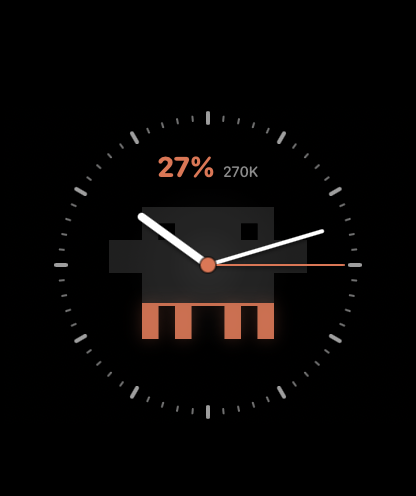
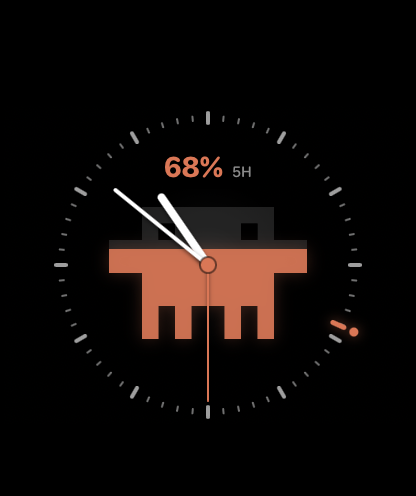
Add five-hour reset experience
Model a mock five-hour allowance, mark its reset time on the analog dial, and let the digital clock toggle to a live countdown.

Copilot-Session: a1662503-018e-45a5-9f2f-94f463106b09

Changed region(s): [[0.25, 0.3629, 0.8125, 0.6351], [0.375, 0.3024, 0.625, 0.3629], [0.7812, 0.6351, 0.875, 0.6956]]

diff --git a/ClaudeCreditsWatch/FiveAliensFaceView.swift b/ClaudeCreditsWatch/FiveAliensFaceView.swift
@@ -3,6 +3,8 @@ import SwiftUI
 
 struct FiveAliensFaceView: View {
     let remainingPercent: Double
+    let resetDate: Date
+    @State private var showsResetCountdown = false
 
     var body: some View {
         GeometryReader { geometry in
@@ -18,18 +20,15 @@ struct FiveAliensFaceView: View {
 
                     Spacer(minLength: geometry.size.height * 0.035)
 
-                    HStack(alignment: .lastTextBaseline, spacing: 6) {
-                        Text(context.date, format: .dateTime.hour().minute())
-                            .font(.system(size: geometry.size.height * 0.215, weight: .light, design: .rounded))
-                            .monospacedDigit()
-                            .foregroundStyle(.white)
-                            .tracking(-2)
-
-                        Text(String(format: "%02d", Calendar.current.component(.second, from: context.date)))
-                            .font(.system(size: geometry.size.height * 0.057, weight: .bold, design: .rounded))
-                            .monospacedDigit()
-                            .foregroundStyle(Color.creditOrange)
-                            .padding(.bottom, geometry.size.height * 0.017)
+                    timeDisplay(
+                        now: context.date,
+                        height: geometry.size.height
+                    )
+                    .contentShape(Rectangle())
+                    .onTapGesture {
+                        withAnimation(.easeInOut(duration: 0.2)) {
+                            showsResetCountdown.toggle()
+                        }
                     }
 
                     Spacer()
@@ -41,7 +40,7 @@ struct FiveAliensFaceView: View {
                                 .monospacedDigit()
                                 .foregroundStyle(Color.creditOrange)
 
-                            Text("\(MockCreditMath.compactTokenText(for: remainingPercent)) left")
+                            Text("5H LEFT")
                                 .font(.system(size: geometry.size.height * 0.043, weight: .medium, design: .rounded))
                                 .foregroundStyle(Color.white.opacity(0.52))
                         }
@@ -73,10 +72,55 @@ struct FiveAliensFaceView: View {
             )
         )
     }
+
+    @ViewBuilder
+    private func timeDisplay(now: Date, height: CGFloat) -> some View {
+        if showsResetCountdown {
+            VStack(spacing: height * 0.006) {
+                Text("RESET IN")
+                    .font(.system(size: height * 0.04, weight: .semibold, design: .rounded))
+                    .tracking(1.4)
+                    .foregroundStyle(Color.creditOrange)
+
+                Text(countdownText(from: now))
+                    .font(.system(size: height * 0.155, weight: .light, design: .rounded))
+                    .monospacedDigit()
+                    .foregroundStyle(.white)
+                    .minimumScaleFactor(0.7)
+            }
+            .transition(.opacity.combined(with: .scale(scale: 0.96)))
+        } else {
+            HStack(alignment: .lastTextBaseline, spacing: 6) {
+                Text(now, format: .dateTime.hour().minute())
+                    .font(.system(size: height * 0.215, weight: .light, design: .rounded))
+                    .monospacedDigit()
+                    .foregroundStyle(.white)
+                    .tracking(-2)
+
+                Text(String(format: "%02d", Calendar.current.component(.second, from: now)))
+                    .font(.system(size: height * 0.057, weight: .bold, design: .rounded))
+                    .monospacedDigit()
+                    .foregroundStyle(Color.creditOrange)
+                    .padding(.bottom, height * 0.017)
+            }
+            .transition(.opacity.combined(with: .scale(scale: 0.96)))
+        }
+    }
+
+    private func countdownText(from now: Date) -> String {
+        let remainingSeconds = max(Int(resetDate.timeIntervalSince(now)), 0)
+        let hours = remainingSeconds / 3_600
+        let minutes = remainingSeconds % 3_600 / 60
+        let seconds = remainingSeconds % 60
+        return String(format: "%01d:%02d:%02d", hours, minutes, seconds)
+    }
 }
 
 struct FiveAliensFaceView_Previews: PreviewProvider {
     static var previews: some View {
-        FiveAliensFaceView(remainingPercent: 70)
+        FiveAliensFaceView(
+            remainingPercent: 70,
+            resetDate: .now.addingTimeInterval(2.5 * 60 * 60)
+        )
     }
 }

diff --git a/ClaudeCreditsWatch/AnalogDrainFaceView.swift b/ClaudeCreditsWatch/AnalogDrainFaceView.swift
@@ -2,6 +2,7 @@ import SwiftUI
 
 struct AnalogDrainFaceView: View {
     let remainingPercent: Double
+    let resetDate: Date
 
     var body: some View {
         GeometryReader { geometry in
@@ -9,6 +10,7 @@ struct AnalogDrainFaceView: View {
                 let diameter = min(geometry.size.width, geometry.size.height)
                 let radius = diameter * 0.49
                 let angles = ClockAngles(date: context.date)
+                let resetAngle = ClockAngles(date: resetDate).hour
 
                 ZStack {
                     RadialGradient(
@@ -28,6 +30,12 @@ struct AnalogDrainFaceView: View {
                             .offset(y: -radius + diameter * 0.028)
                             .rotationEffect(.degrees(Double(tick) * 6))
                     }
+
+                    resetMarker(
+                        diameter: diameter,
+                        radius: radius,
+                        angle: resetAngle
+                    )
 
                     PixelAlienMeter(
                         fraction: remainingPercent / 100,
@@ -70,7 +78,7 @@ struct AnalogDrainFaceView: View {
                                 .font(.system(size: diameter * 0.095, weight: .bold, design: .rounded))
                                 .foregroundStyle(Color.creditOrange)
 
-                            Text(MockCreditMath.compactTokenText(for: remainingPercent))
+                            Text("5H")
                                 .font(.system(size: diameter * 0.05, weight: .medium, design: .rounded))
                                 .foregroundStyle(Color.white.opacity(0.55))
                         }
@@ -85,6 +93,26 @@ struct AnalogDrainFaceView: View {
                 .frame(maxWidth: .infinity, maxHeight: .infinity)
             }
         }
+    }
+
+    private func resetMarker(
+        diameter: CGFloat,
+        radius: CGFloat,
+        angle: Double
+    ) -> some View {
+        VStack(spacing: 2) {
+            Circle()
+                .fill(Color.creditOrange)
+                .frame(width: diameter * 0.028, height: diameter * 0.028)
+
+            Capsule()
+                .fill(Color.creditOrange)
+                .frame(width: 2.5, height: diameter * 0.055)
+        }
+        .offset(y: -radius + diameter * 0.018)
+        .rotationEffect(.degrees(angle))
+        .shadow(color: Color.creditOrange.opacity(0.55), radius: 3)
+        .accessibilityLabel("Five hour allowance resets at \(resetDate.formatted(date: .omitted, time: .shortened))")
     }
 
     private func clockHand(
@@ -121,6 +149,9 @@ private struct ClockAngles {
 
 struct AnalogDrainFaceView_Previews: PreviewProvider {
     static var previews: some View {
-        AnalogDrainFaceView(remainingPercent: 42)
+        AnalogDrainFaceView(
+            remainingPercent: 42,
+            resetDate: .now.addingTimeInterval(2.5 * 60 * 60)
+        )
     }
 }

diff --git a/ClaudeCreditsWatch/MockControlsView.swift b/ClaudeCreditsWatch/MockControlsView.swift
@@ -2,6 +2,7 @@ import SwiftUI
 
 struct MockControlsView: View {
     @Binding var remainingPercent: Double
+    @Binding var resetAt: Double
     @Binding var selectedFaceRawValue: String
     @Environment(\.dismiss) private var dismiss
 
@@ -10,6 +11,10 @@ struct MockControlsView: View {
             get: { FaceStyle(rawValue: selectedFaceRawValue) ?? .fiveAliens },
             set: { selectedFaceRawValue = $0.rawValue }
         )
+    }
+
+    private var resetDate: Date {
+        Date(timeIntervalSince1970: resetAt)
     }
 
     var body: some View {
@@ -23,13 +28,13 @@ struct MockControlsView: View {
                     }
                 }
 
-                Section("Mock credits") {
+                Section("Mock 5-hour allowance") {
                     VStack(spacing: 8) {
                         Text("\(Int(remainingPercent.rounded()))%")
                             .font(.title2.bold())
                             .foregroundStyle(Color.creditOrange)
 
-                        Text("\(MockCreditMath.compactTokenText(for: remainingPercent)) tokens left")
+                        Text("remaining")
                             .font(.footnote)
                             .foregroundStyle(.secondary)
 
@@ -43,9 +48,26 @@ struct MockControlsView: View {
                     Button("Full") { remainingPercent = 100 }
                 }
 
+                Section("Reset time") {
+                    Text(resetDate, style: .timer)
+                        .font(.title3.monospacedDigit())
+                        .foregroundStyle(Color.creditOrange)
+
+                    Button("Reset in 1 hour") {
+                        setReset(after: 1)
+                    }
+                    Button("Reset in 3 hours") {
+                        setReset(after: 3)
+                    }
+                    Button("Reset in 5 hours") {
+                        setReset(after: 5)
+                    }
+                }
+
                 Section("Shortcuts") {
                     Text("Crown adjusts credits")
                     Text("Double-tap switches face")
+                    Text("Tap digital time for countdown")
                     Text("Long-press opens this panel")
                 }
                 .font(.footnote)
@@ -60,12 +82,17 @@ struct MockControlsView: View {
             }
         }
     }
+
+    private func setReset(after hours: Double) {
+        resetAt = Date.now.addingTimeInterval(hours * 60 * 60).timeIntervalSince1970
+    }
 }
 
 struct MockControlsView_Previews: PreviewProvider {
     static var previews: some View {
         MockControlsView(
             remainingPercent: .constant(68),
+            resetAt: .constant(Date.now.addingTimeInterval(3 * 60 * 60).timeIntervalSince1970),
             selectedFaceRawValue: .constant(FaceStyle.fiveAliens.rawValue)
         )
     }

diff --git a/ClaudeCreditsWatch/ContentView.swift b/ClaudeCreditsWatch/ContentView.swift
@@ -18,6 +18,7 @@ enum FaceStyle: String, CaseIterable, Identifiable {
 
 struct ContentView: View {
     @AppStorage("remainingPercent") private var remainingPercent = 68.0
+    @AppStorage("mockResetAt") private var mockResetAt = 0.0
     @AppStorage("selectedFace") private var selectedFaceRawValue = FaceStyle.fiveAliens.rawValue
     @State private var isShowingControls = false
     @FocusState private var receivesCrownInput: Bool
@@ -27,16 +28,26 @@ struct ContentView: View {
         nonmutating set { selectedFaceRawValue = newValue.rawValue }
     }
 
+    private var resetDate: Date {
+        Date(timeIntervalSince1970: mockResetAt)
+    }
+
     var body: some View {
         ZStack {
             Color.black.ignoresSafeArea()
 
             switch selectedFace {
             case .fiveAliens:
-                FiveAliensFaceView(remainingPercent: remainingPercent)
+                FiveAliensFaceView(
+                    remainingPercent: remainingPercent,
+                    resetDate: resetDate
+                )
                     .transition(.opacity.combined(with: .scale(scale: 0.96)))
             case .analogDrain:
-                AnalogDrainFaceView(remainingPercent: remainingPercent)
+                AnalogDrainFaceView(
+                    remainingPercent: remainingPercent,
+                    resetDate: resetDate
+                )
                     .transition(.opacity.combined(with: .scale(scale: 0.96)))
             }
         }
@@ -57,6 +68,9 @@ struct ContentView: View {
 #endif
         .onAppear {
             remainingPercent = MockCreditMath.clampedPercent(remainingPercent)
+            if resetDate <= .now {
+                mockResetAt = Date.now.addingTimeInterval(5 * 60 * 60).timeIntervalSince1970
+            }
             receivesCrownInput = true
         }
         .onChange(of: remainingPercent) { _, newValue in
@@ -75,6 +89,7 @@ struct ContentView: View {
         }) {
             MockControlsView(
                 remainingPercent: $remainingPercent,
+                resetAt: $mockResetAt,
                 selectedFaceRawValue: $selectedFaceRawValue
             )
         }

diff --git a/tools/render_previews.swift b/tools/render_previews.swift
@@ -12,13 +12,19 @@ struct PreviewRenderer {
         )
 
         try render(
-            FiveAliensFaceView(remainingPercent: 70),
+            FiveAliensFaceView(
+                remainingPercent: 70,
+                resetDate: .now.addingTimeInterval(2.5 * 60 * 60)
+            ),
             size: CGSize(width: 198, height: 242),
             to: outputDirectory.appendingPathComponent("five-aliens-70.png")
         )
 
         try render(
-            AnalogDrainFaceView(remainingPercent: 42),
+            AnalogDrainFaceView(
+                remainingPercent: 42,
+                resetDate: .now.addingTimeInterval(2.5 * 60 * 60)
+            ),
             size: CGSize(width: 198, height: 242),
             to: outputDirectory.appendingPathComponent("analog-drain-42.png")
         )

diff --git a/README.md b/README.md
@@ -1,16 +1,18 @@
 # Claude Credits Watch
 
-A standalone SwiftUI watchOS prototype for visualizing mocked monthly Claude
-credits. It includes two full-screen, face-like designs:
+A standalone SwiftUI watchOS prototype for visualizing the remaining Claude
+five-hour allowance. It currently uses mock values and includes two full-screen,
+face-like designs:
 
 - **Five aliens:** a digital clock with five segmented pixel aliens along the
   bottom. Each alien represents 20% of the monthly allowance.
 - **Analog drain:** a quiet analog clock with one large alien that drains
-  vertically as the remaining allowance falls.
+  vertically as the remaining allowance falls. An orange bezel marker shows
+  the reset time.
 
-| Five aliens in the Series 11 simulator | Analog drain in the Series 11 simulator |
-| --- | --- |
-| ![Five alien digital design](Previews/watch-simulator.png) | ![Analog draining alien design](Previews/watch-simulator-analog.png) |
+| Digital clock | Reset countdown | Analog reset marker |
+| --- | --- | --- |
+| ![Five Clawd digital design](Previews/watch-simulator.png) | ![Five-hour reset countdown](Previews/watch-reset-countdown.png) | ![Analog draining Clawd design](Previews/watch-simulator-analog.png) |
 
 > Apple does not let third-party developers install fully custom system watch
 > faces. This project is a watchOS app that behaves like a face while it is
@@ -39,10 +41,12 @@ xcodegen generate
 
 - Rotate the Digital Crown to change the mocked remaining percentage.
 - Double-tap anywhere to switch between the two designs.
+- Tap the digital time to switch between the clock and reset countdown.
 - Long-press anywhere to open controls with a slider and preset values.
 
-The mock starts at a one-million-token monthly allowance. `MockCreditMath` is
-the seam for replacing local values with a real API response later.
+The controls also provide one-, three-, and five-hour reset presets. The
+percentage and reset timestamp are the seams for replacing local values with
+Claude Code's official five-hour rate-limit snapshot later.
 
 ## Branding
 
